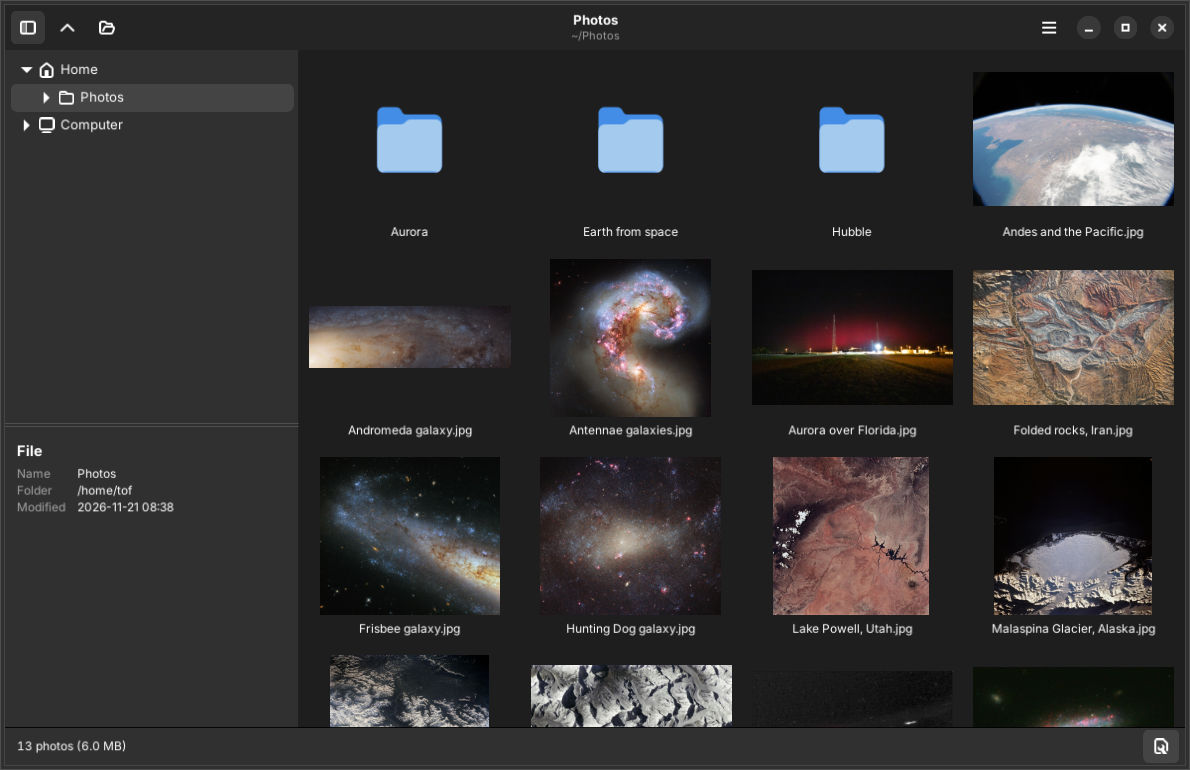
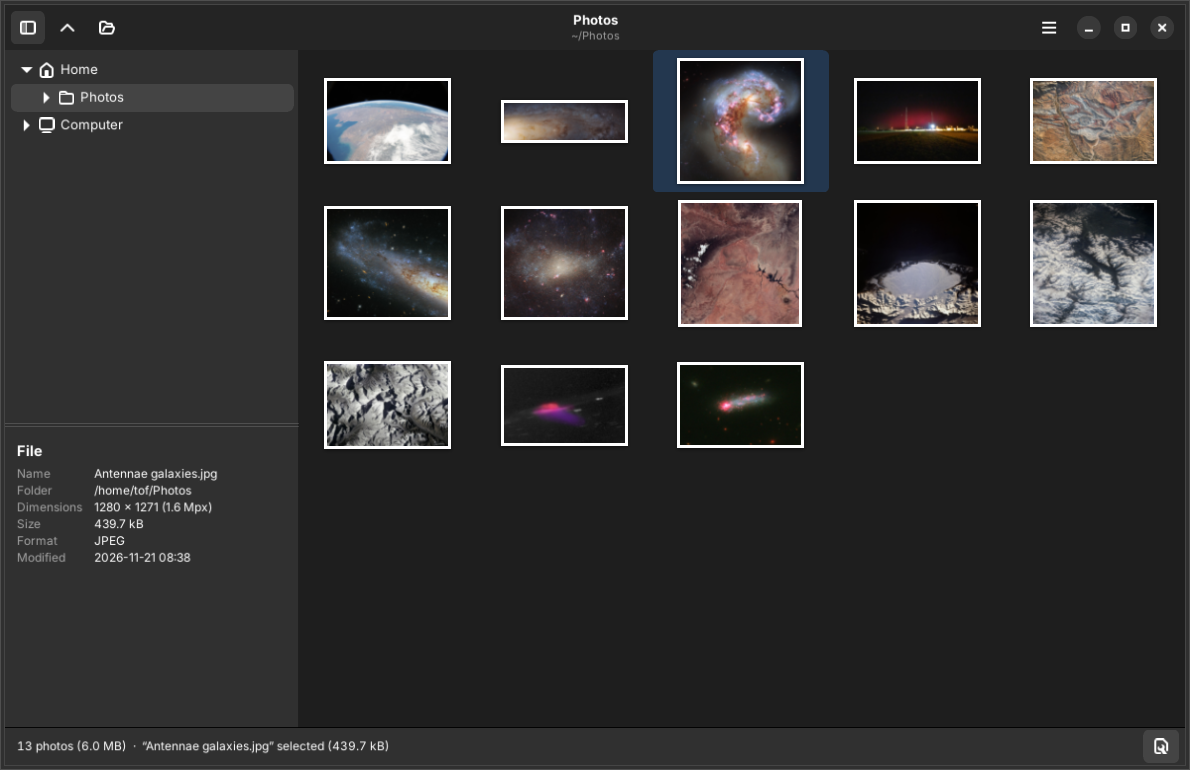
README et site à jour ; photo ouverte : le dossier lu après ne remet plus le zoom à zéro
README et site : diaporama et transitions, sélection multiple, tailles des
vignettes, Convertir / redimensionner, clic droit, dossier de départ ;
captures refaites (grille de la 0.2), deux nouvelles (glissement,
conversion).

Photo ouverte de l'extérieur : quand le dossier finissait d'être lu, la
photo déjà affichée était relue et un zoom, une rotation ou un recadrage
commencés entre-temps étaient perdus.

Claude-Session: https://claude.ai/code/session_01DLrkgZZZBUMYUUihuPcv9t

diff --git a/site/index.html b/site/index.html
@@ -150,8 +150,9 @@
   <div class="wrap">
     <span class="kicker">Browse</span>
     <h2>A folder at a glance</h2>
-    <p class="sub">Subfolders first, then photos in natural order (2 before 10). Thumbnails are shared with Nautilus:
-      what your file manager already made shows up instantly.</p>
+    <p class="sub">The photos of the folder in natural order (2 before 10), the folders in the tree beside them.
+      Thumbnails are shared with Nautilus: what your file manager already made shows up instantly, and a folder you
+      come back to is there at once.</p>
     <div class="row">
       <div class="text">
         <h3>Folder tree and properties</h3>
@@ -160,6 +161,9 @@
           <li>The tree unfolds by itself to the folder you are in</li>
           <li>Properties of the selected photo under the tree (I)</li>
           <li>Sort by name, date or size; the folder is watched, new photos appear</li>
+          <li>Four thumbnail sizes, also with Ctrl + wheel — large ones for tired eyes</li>
+          <li>Select several photos with the mouse, Ctrl or Shift; Ctrl+A for all</li>
+          <li>Opens on the last folder, on Pictures or on a folder of your choice</li>
         </ul>
       </div>
       <div class="shot"><img src="img/grid.png" alt="Grid of photos with the folder tree" loading="lazy"></div>
@@ -193,6 +197,16 @@
       </div>
       <div class="shot"><img src="img/light.png" alt="Argos in the light theme" loading="lazy"></div>
     </div>
+    <div class="row">
+      <div class="text">
+        <h3>Slideshow, with a gentle slide</h3>
+        <p>F5 and the photos follow one another in full screen, every few seconds. Space pauses, the arrows move on,
+          Escape stops. Each photo glides in — or fades in, as you prefer — and the same transition follows you when
+          you browse with the keyboard or the wheel. In full screen, the arrows and the pointer hide when the mouse
+          rests.</p>
+      </div>
+      <div class="shot"><img src="img/slide.png" alt="One photo sliding out while the next one slides in" loading="lazy"></div>
+    </div>
   </div>
 </section>
 
@@ -210,11 +224,21 @@
       </div>
       <div class="shot"><img src="img/crop.png" alt="Crop frame with handles and rule of thirds" loading="lazy"></div>
     </div>
+    <div class="row flip">
+      <div class="text">
+        <h3>Convert or resize many at once</h3>
+        <p>Select photos in the grid and press Ctrl+E: resize, rotate and convert in one go, next to the originals or
+          in their place, with the progress in the window and a Cancel that really stops.</p>
+      </div>
+      <div class="shot"><img src="img/convert.png" alt="Convert dialog on four selected photos" loading="lazy"></div>
+    </div>
     <div class="grid">
       <div class="card"><div class="ico">↻</div><h4>Rotate</h4><p>R and Shift+R. The photo is saved the way you see it, EXIF orientation included.</p></div>
       <div class="card"><div class="ico">⇄</div><h4>Save as</h4><p>JPEG, PNG, WebP, TIFF, BMP, GIF — the extension decides. JPEG quality kept.</p></div>
       <div class="card"><div class="ico">⟲</div><h4>Undo</h4><p>The original is kept after saving, one click brings it back.</p></div>
       <div class="card"><div class="ico">🗑</div><h4>Trash</h4><p>Delete moves the photo to the trash, the next one shows up.</p></div>
+      <div class="card"><div class="ico">🖼</div><h4>Right-click</h4><p>Set as wallpaper, print, open with, copy or move to, rename (F2), copy the image.</p></div>
+      <div class="card"><div class="ico">⚡</div><h4>Big photos, quickly</h4><p>HEIC and AVIF sizes are read from the file header: a folder of phone photos opens without decoding them all.</p></div>
     </div>
   </div>
 </section>
@@ -248,7 +272,7 @@
 <footer>
   <div class="wrap">
     <span>Argos — free software, GPL-3.0 · by Tof · Screenshot photos: NASA (public domain)</span>
-    <span><a href="https://github.com/ToFpon/Argos">GitHub</a> · <a href="https://launchpad.net/~nourpon/+archive/ubuntu/argos">Launchpad</a> · also <a href="https://tofmicro.pages-perso.free.fr/Odysseus/">Odysseus</a>, <a href="https://tofmicro.pages-perso.free.fr/Calypso/">Calypso</a>, <a href="https://tofmicro.pages-perso.free.fr/Nausicaa/">Nausicaa</a></span>
+    <span><a href="https://github.com/ToFpon/Argos">GitHub</a> · <a href="https://launchpad.net/~nourpon/+archive/ubuntu/argos">Launchpad</a> · also <a href="https://tofmicro.pages-perso.free.fr/Odysseus/">Odysseus</a>, <a href="https://tofmicro.pages-perso.free.fr/Calypso/">Calypso</a>, <a href="https://tofmicro.pages-perso.free.fr/Nausicaa/">Nausicaa</a>, <a href="https://tofmicro.pages-perso.free.fr/Ithaca/">Ithaca</a>, <a href="https://tofmicro.pages-perso.free.fr/Telemaque/">Télémaque</a>, <a href="https://tofmicro.pages-perso.free.fr/Sirene/">Sirène</a></span>
   </div>
 </footer>
 

diff --git a/tools/screenshot.py b/tools/screenshot.py
@@ -5,6 +5,8 @@
 
 CHEMIN : une photo (visionneuse) ou un dossier (grille).
 Options : --dark --size=LxH --delay=ms --zoom=FACTEUR --info --fullscreen --no-strip --prefs=PAGE --crop --rotate
+          --multi=N (N premières photos sélectionnées dans la grille) --convert (dialogue Convertir / redimensionner
+          sur cette sélection) --slide=P (photo suivante en plein glissement, P = avancement 0..1)
 """
 import os
 import sys
@@ -33,7 +35,8 @@ import gi  # noqa: E402
 
 gi.require_version("Gtk", "4.0")
 gi.require_version("Gdk", "4.0")
-from gi.repository import GLib, Gtk  # noqa: E402
+gi.require_version("Graphene", "1.0")
+from gi.repository import GLib, Graphene, Gtk  # noqa: E402
 
 from argos.app import ArgosApp  # noqa: E402
 
@@ -44,6 +47,14 @@ def snap(widget, path):
     p = Gtk.WidgetPaintable.new(widget)
     sn = Gtk.Snapshot()
     p.snapshot(sn, widget.get_width(), widget.get_height())
+    w, h = widget.get_width(), widget.get_height()
+    for d in Gtk.Window.list_toplevels():          # dialogues posés sur la fenêtre : composés au centre
+        if d is not widget and d.get_visible() and d.get_transient_for() is widget:
+            dw, dh = d.get_width(), d.get_height()
+            sn.save()
+            sn.translate(Graphene.Point().init(max((w - dw) / 2, 0), max((h - dh) / 2, 0)))
+            Gtk.WidgetPaintable.new(d).snapshot(sn, dw, dh)
+            sn.restore()
     node = sn.to_node()
     tex = widget.get_native().get_renderer().render_texture(node, None)
     tex.save_to_png(path)
@@ -60,9 +71,34 @@ def stage():
     if opts.get("info"):
         win.info_button.set_active(True)
         win.browser_info_button.set_active(True)
-        if win.images:
-            pick = opts.get("select") or win.images[0].name
-            GLib.timeout_add(800, lambda: (win.grid.select_path(os.path.join(win.folder, pick)), False)[1])
+        def select():                            # dossier lu entre-temps (la liste est vide au départ)
+            if win.images:
+                pick = opts.get("select") or win.images[0].name
+                win.grid.select_path(os.path.join(win.folder, pick))
+            return False
+        GLib.timeout_add(int(opts.get("delay", 1500)) - 1000, select)
+    if opts.get("multi"):
+        def choose():
+            for i in range(int(opts["multi"])):
+                win.grid.selection.select_item(i, False)
+            if opts.get("convert"):
+                win.image_tools()
+            return False
+        GLib.timeout_add(800, choose)
+    if opts.get("slide"):
+        def slide():
+            win.go(1)
+
+            def hold():
+                if not win.view.in_transition():
+                    return True
+                win.view._trans_anim.pause()
+                win.view._trans[3] = float(opts["slide"])
+                win.view.queue_draw()
+                return False
+            GLib.timeout_add(20, hold)
+            return False
+        GLib.timeout_add(300, slide)
     if opts.get("crop"):
         win.start_crop()
         fw, fh = win.view.full_size()

diff --git a/argos/ui/window.py b/argos/ui/window.py
@@ -242,6 +242,7 @@ class MainWindow(FileMenu, Adw.ApplicationWindow):
         self._slideshow_id = 0
         self._slideshow_paused = False
         self._slide_step = 0             # photo suivante / précédente demandée : transition dans ce sens
+        self._shown_path = None          # photo demandée en dernier à la visionneuse
 
         self.info = InfoPanel()
         self.split = Adw.OverlaySplitView(content=overlay, sidebar=self.info, sidebar_position=Gtk.PackType.END,
@@ -463,7 +464,13 @@ class MainWindow(FileMenu, Adw.ApplicationWindow):
         self._want_path = None
         if want is not None:
             i = self._index_of(want)
-            if i >= 0:
+            if i >= 0 and want == self._shown_path and self.stack.get_visible_child_name() == "viewer":
+                # photo ouverte de l'extérieur, déjà affichée (liste provisoire) : seulement sa place dans le dossier
+                # — la relire remettait à zéro un zoom, une rotation ou un recadrage commencé pendant la lecture
+                self.index = i
+                self.filmstrip.show_index(i)
+                self._sync_status()
+            elif i >= 0:
                 self.show_index(i)
                 self.show_viewer()
             elif os.path.isfile(want):           # photo d'un format inconnu, fichier caché… : montrée seule
@@ -810,6 +817,7 @@ class MainWindow(FileMenu, Adw.ApplicationWindow):
             return
         self.index = i
         entry = self.images[i]
+        self._shown_path = entry.path
         self.filmstrip.show_index(i)
         self.viewer_title.set_title(shown(entry.name))
         self.set_title(f"{shown(entry.name)} — {APP_NAME}")

diff --git a/tests/ui_smoke.py b/tests/ui_smoke.py
@@ -337,6 +337,15 @@ def steps(app):
     check(win.stack.get_visible_child_name() == "viewer", "photo ouverte : visionneuse tout de suite")
     yield lambda: win.picture is not None and win.picture.path == target and len(win.images) > 3
     check(win.images[win.index].path == target, "puis le dossier autour de la photo")
+    # le dossier arrive APRÈS un geste sur la photo déjà affichée (gros dossier) : zoom gardé, photo pas relue
+    win.view.set_zoom(2.0)
+    cached = win._folder_cache.get(win.folder)
+    win._want_path = target
+    win._scan_seq += 1
+    win._scanned(win._scan_seq, cached[1], "")
+    yield 400
+    check(not win.view.fit and abs(win.view.zoom - 2.0) < 1e-6 and win.images[win.index].path == target,
+          "dossier lu après un zoom : la photo ouverte garde son zoom")
 
     # menu du clic droit (photo) : contenu, renommer, copier vers (sans écrasement), supprimer définitivement
     win.show_index(0)

diff --git a/README.md b/README.md
@@ -7,6 +7,10 @@
 
 ![Argos](site/img/dark.png)
 
+| Grid / Grille | Slideshow / Diaporama | Convert / Convertir |
+|---|---|---|
+| ![Grid](site/img/grid.png) | ![Slideshow](site/img/slide.png) | ![Convert](site/img/convert.png) |
+
 ---
 
 ## English
@@ -17,14 +21,21 @@ Ctrl + wheel zooms around the pointer. It follows your desktop theme (Adwaita, l
 installed GTK4 theme).
 
 ### Features
-- **Grid** of the folder (subfolders, then photos in natural order) with thumbnails shared with Nautilus, a
-  **folder tree** (home, Pictures, mounted disks, computer) and a **properties** panel (I).
+- **Grid** of the folder's photos in natural order, with thumbnails shared with Nautilus, a **folder tree**
+  (home, Pictures, mounted disks, computer) and a **properties** panel (I). Four thumbnail sizes (Preferences, or
+  Ctrl + wheel), several photos selected with the mouse, Ctrl or Shift, a folder you come back to shows at once.
 - **Viewer**: wheel = next / previous photo, Ctrl + wheel = zoom around the pointer, drag to move a zoomed
   photo, double click = plain full screen, neighbouring photos read in advance, animated GIFs.
 - **Thumbnail strip** under the photo with an adjustable height, **status bar** (« 4 / 858 · 1920 × 1080 ·
   1.9 MB · JPEG · 56% »), **properties** with the shooting details (camera, lens, exposure, ISO…).
+- **Slideshow** (F5): full screen, a photo every few seconds, Space to pause, Escape to stop. Photos **slide in**
+  (or fade in, or no transition — Preferences), also when browsing with the keyboard or the wheel. In full screen,
+  the arrows and the pointer hide when the mouse rests.
 - **Simple editing**: rotate (R / Shift+R), crop (C, with aspect ratios), save (the original can be restored
   right after) or save as another format (JPEG, PNG, WebP, TIFF, BMP, GIF).
+- **Convert / resize** several photos at once (Ctrl+E): resize, rotate and convert in one go.
+- **Right-click**: set as wallpaper, print, open with, copy image, copy or move to, rename (F2), trash, delete.
+- Opens on the last folder, on Pictures or on a folder of your choice (Preferences).
 - Formats: JPEG, PNG, GIF, WebP, TIFF, BMP, SVG, HEIC, AVIF (those of GdkPixbuf).
 - Default photo viewer switch, English, French and German.
 
@@ -50,15 +61,24 @@ précédente, Ctrl + molette zoome autour du pointeur. Argos suit le thème du b
 couleur d'accent, thème GTK4 installé).
 
 ### Fonctionnalités
-- **Grille** du dossier (sous-dossiers, puis photos dans l'ordre naturel) avec les miniatures partagées avec
-  Nautilus, **arbre des dossiers** (dossier personnel, Images, disques montés, ordinateur) et panneau des
-  **propriétés** (I).
+- **Grille** des photos du dossier dans l'ordre naturel, avec les miniatures partagées avec Nautilus, **arbre
+  des dossiers** (dossier personnel, Images, disques montés, ordinateur) et panneau des **propriétés** (I). Quatre
+  tailles de vignettes (Préférences, ou Ctrl + molette), plusieurs photos sélectionnées à la souris, avec Ctrl ou
+  Maj, un dossier où l'on revient s'affiche tout de suite.
 - **Visionneuse** : molette = photo suivante / précédente, Ctrl + molette = zoom autour du pointeur, glisser pour
   déplacer une photo agrandie, double-clic = plein écran simple, photos voisines lues d'avance, GIF animés.
 - **Bande de vignettes** sous la photo, réglable en hauteur, **barre d'état** (« 4 / 858 · 1920 × 1080 ·
   1,9 Mo · JPEG · 56 % »), **propriétés** avec la prise de vue (appareil, objectif, exposition, ISO…).
+- **Diaporama** (F5) : plein écran, une photo toutes les quelques secondes, Espace pour la pause, Échap pour
+  arrêter. Les photos **arrivent en glissant** (ou en fondu, ou sans transition — Préférences), aussi en naviguant
+  au clavier ou à la molette. En plein écran, les flèches et le pointeur se cachent quand la souris ne bouge plus.
 - **Retouche simple** : pivoter (R / Maj+R), recadrer (C, avec proportions), enregistrer (l'original peut être
   rétabli juste après) ou enregistrer sous un autre format (JPEG, PNG, WebP, TIFF, BMP, GIF).
+- **Convertir / redimensionner** plusieurs photos d'un coup (Ctrl+E) : redimensionner, pivoter et convertir en une
+  passe.
+- **Clic droit** : définir comme arrière-plan, imprimer, ouvrir avec, copier l'image, copier ou déplacer vers,
+  renommer (F2), corbeille, supprimer.
+- S'ouvre sur le dernier dossier, sur Images ou sur un dossier choisi (Préférences).
 - Formats : JPEG, PNG, GIF, WebP, TIFF, BMP, SVG, HEIC, AVIF (ceux de GdkPixbuf).
 - Interrupteur « Visionneuse de photos par défaut », anglais, français et allemand.
 

diff --git a/CLAUDE.md b/CLAUDE.md
@@ -105,6 +105,9 @@ Nom : Argos le géant aux cent yeux (et le chien d'Ulysse, le seul à le reconna
   en même temps que le dossier (liste provisoire d'une photo) — vu chez Tof : la grille passait une fraction de
   seconde avant. Grille : nom sous les DOSSIERS seulement (demande de Tof : place pour les photos ; nom dans
   l'infobulle, la barre d'état, les propriétés). Roue de chargement de la grille : Gtk.Spinner 32 px centré (étirée, elle remplissait tout).
+  PIÈGE (vu en refaisant les captures du site) : le dossier lu APRÈS l'affichage relançait `show_index` sur la même
+  photo → relue, zoom / rotation / recadrage commencés entre-temps remis à zéro. Maintenant, photo déjà demandée
+  (`_shown_path`) : seulement sa place dans le dossier. Testé : « dossier lu après un zoom » d'ui_smoke.
 - Clic droit sur une photo, visionneuse ET grille (`ui/filemenu.py`, mixin `FileMenu` ; menu de gThumb demandé par
   Tof, sans commentaire / étiquettes / catalogue) : plein écran, définir comme arrière-plan (copie dans
   ~/.local/share/backgrounds sous un nom UNIQUE « argos-NOM-ms.ext » — vu chez Tof : même nom = même adresse, GNOME
@@ -237,6 +240,8 @@ tools/screenshot.py SORTIE.png CHEMIN [--dark] [--size=LxH] [--zoom=F] [--info] 
    (domaine public, crédit en bas du site et du README ; Wikimedia refusait nos requêtes : 429) copiées dans
    /home/tof/Photos (chemin court dans les propriétés) : `HOME=/home/tof LANGUAGE=en xvfb-run -a -s "-screen 0
    1400x1000x24" python3.12 tools/screenshot.py site/img/NOM.png CHEMIN --size=1200x780 --delay=3000 [options]` —
-   dark (Mount Everest.jpg --dark), light (Andes and the Pacific.jpg), grid (dossier --dark --info), crop (Lake
-   Powell, Utah.jpg --dark --crop), info (Antennae galaxies.jpg --dark --info). Photos : images-api.nasa.gov.
+   dark (Mount Everest.jpg --dark), light (Andes and the Pacific.jpg), crop (Lake
+   Powell, Utah.jpg --dark --crop), info (Antennae galaxies.jpg --dark --info), grid (dossier --dark --info --select="Antennae galaxies.jpg" --delay=4000),
+   slide (Aurora over Florida.jpg --dark --no-strip --slide=0.4), convert (dossier --dark --multi=4 --convert) ;
+   le README montre dark + grid / slide / convert. Photos : images-api.nasa.gov.
 4. Essai chez Tof.
